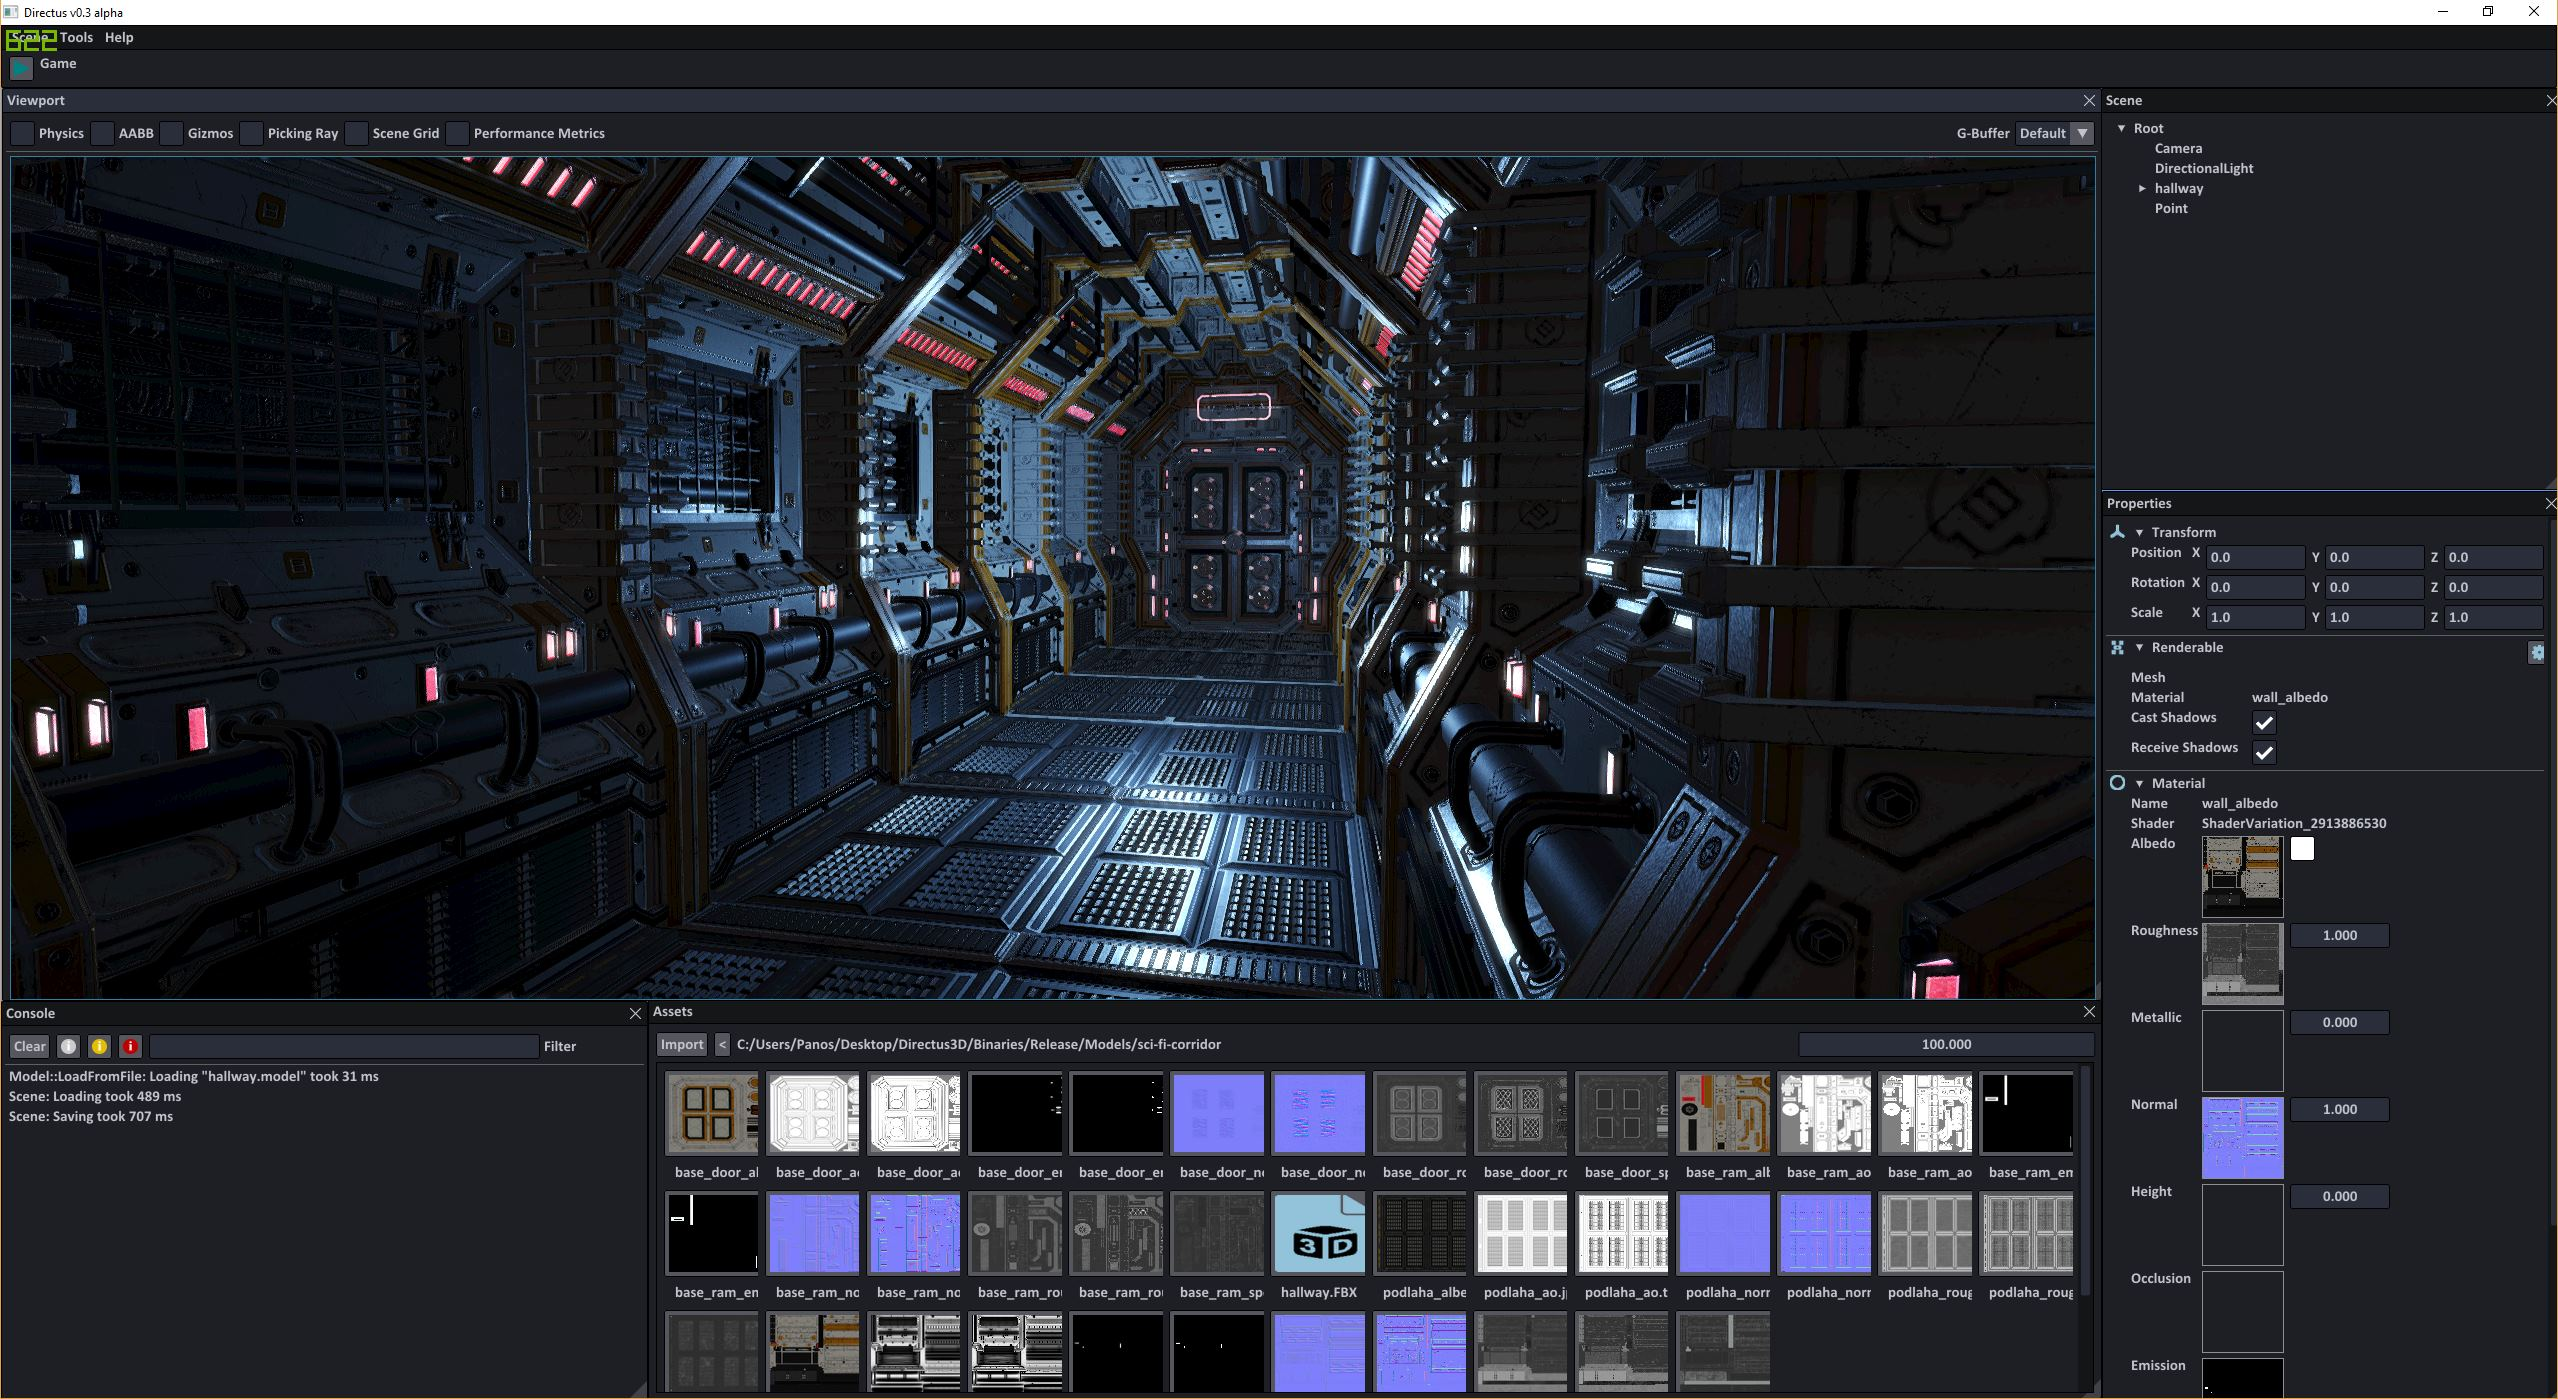
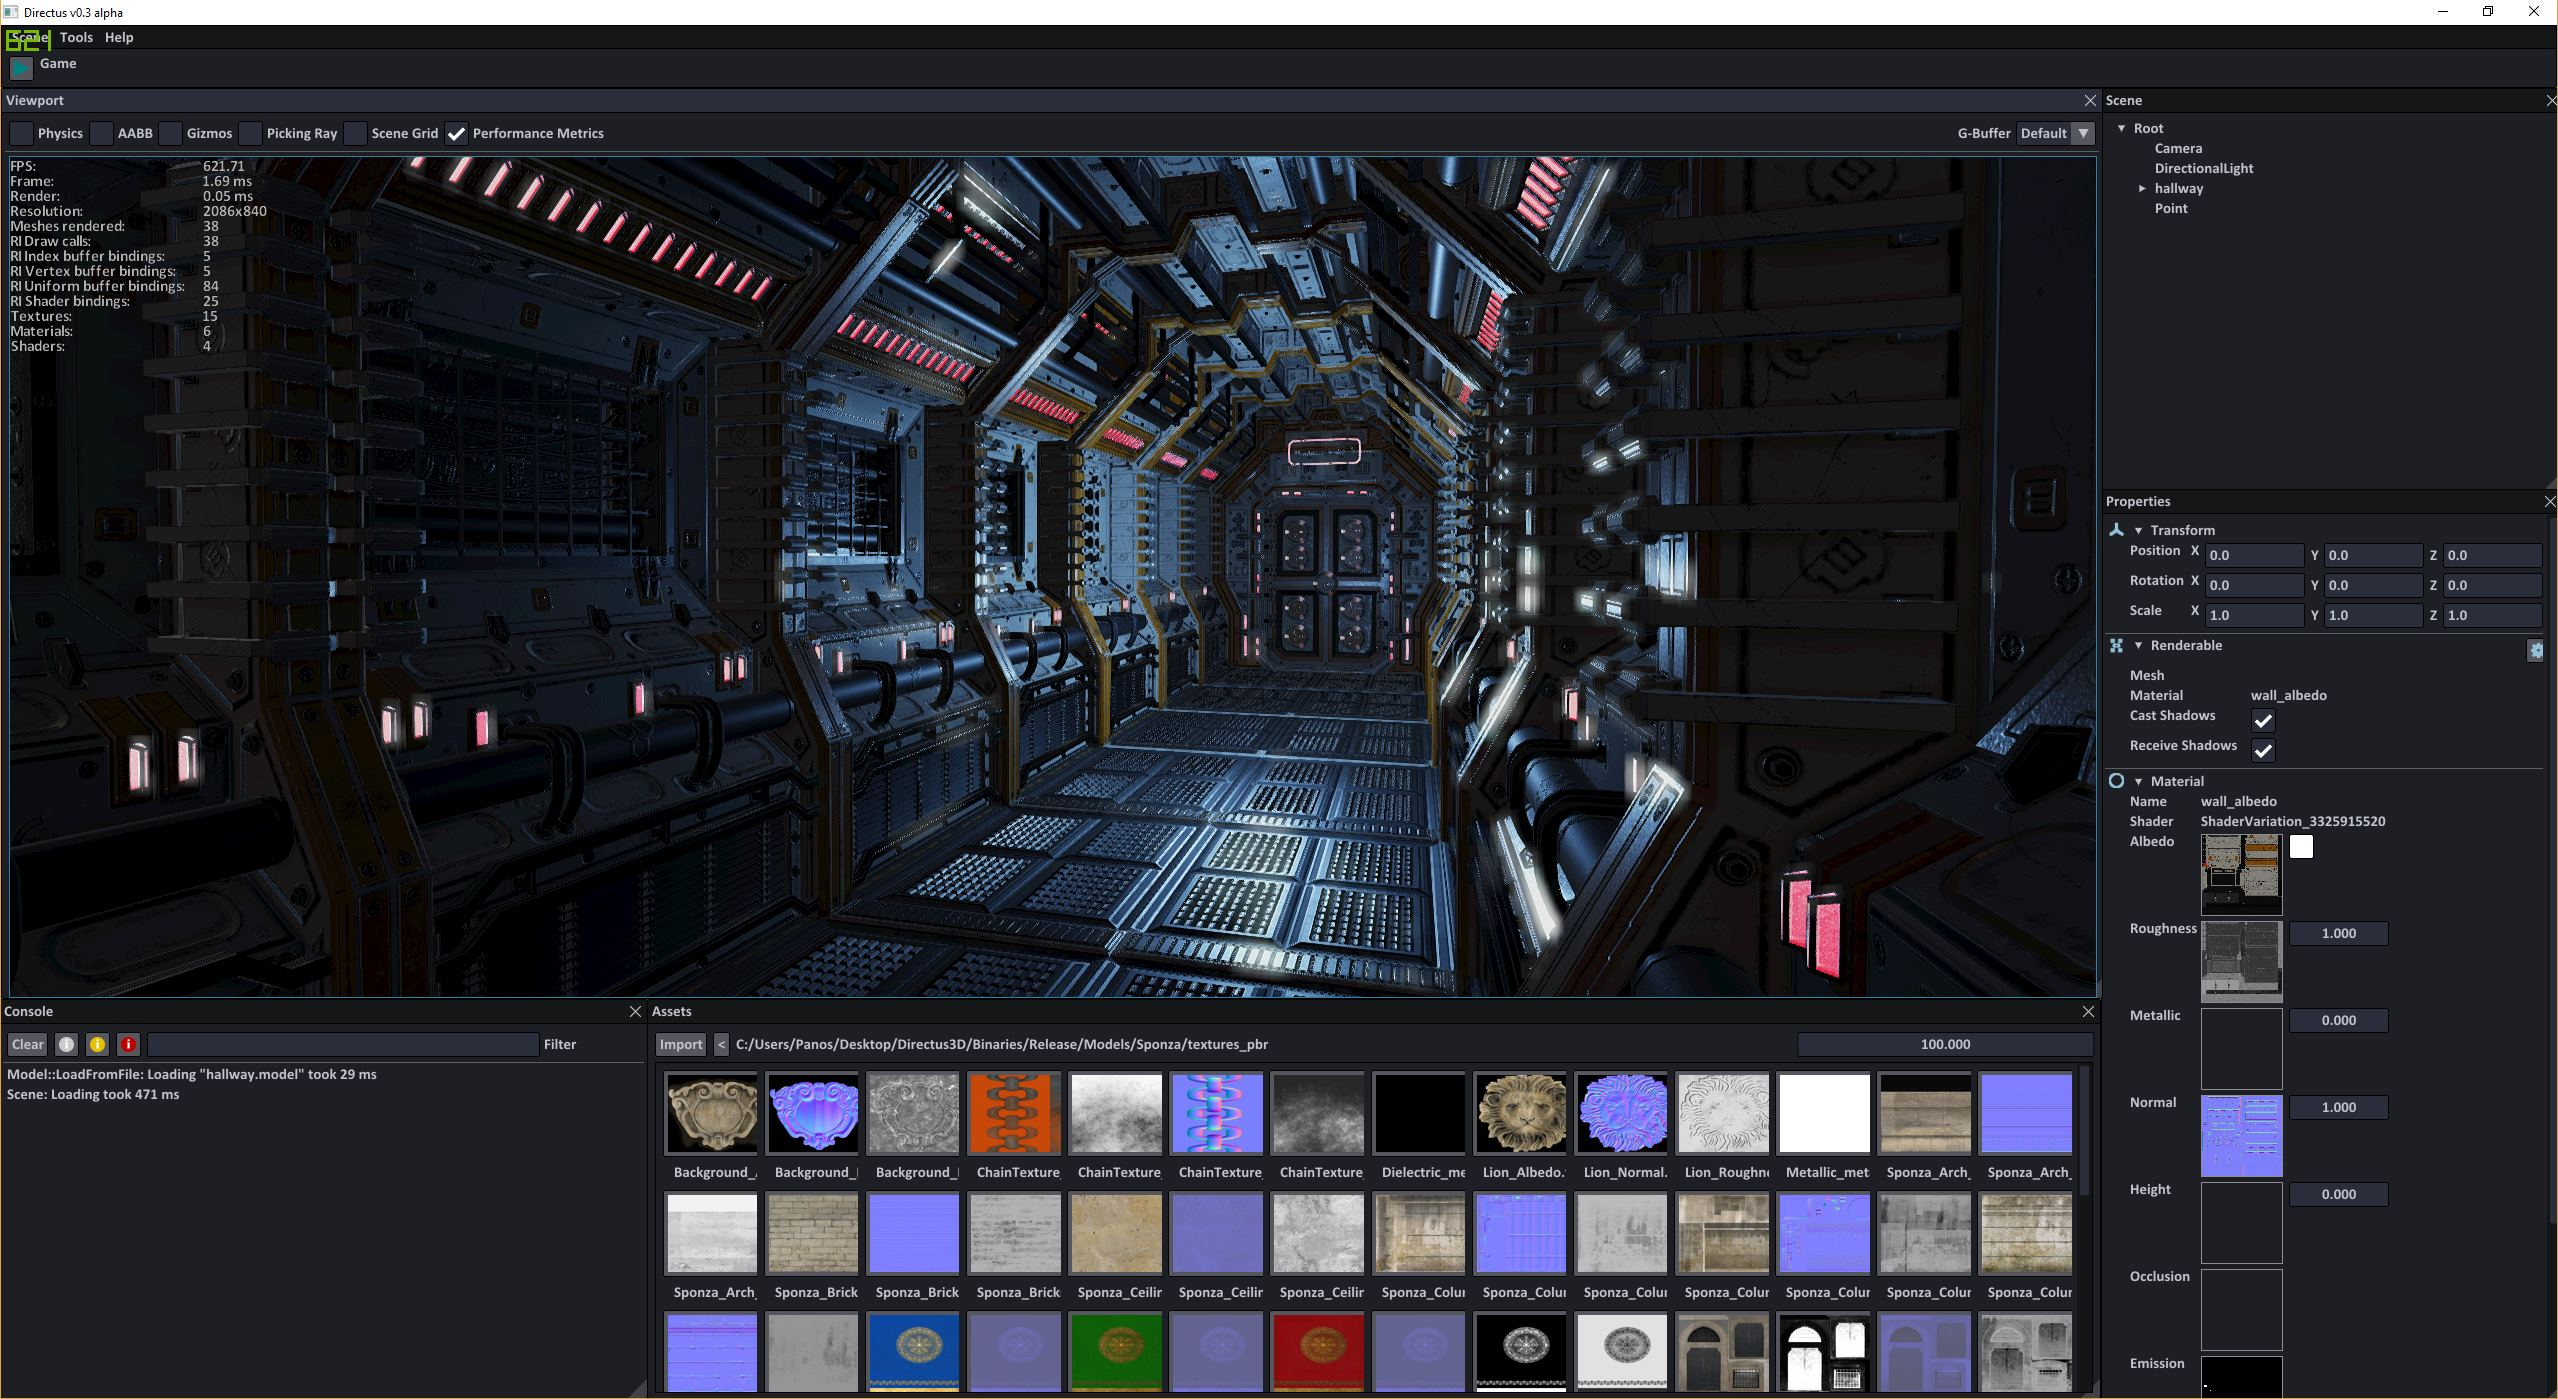
Updated screenshot

diff --git a/Runtime/Rendering/Renderer.cpp b/Runtime/Rendering/Renderer.cpp
@@ -240,8 +240,8 @@ namespace Directus
 			m_shaderShadowing = make_unique<RI_Shader>(m_context);
 			m_shaderShadowing->Compile(shaderDirectory + "Shadowing.hlsl");
 			m_shaderShadowing->SetInputLaytout(PositionTexture);
-			m_shaderShadowing->AddSampler(Texture_Sampler_Point, Texture_Address_Clamp); // Shadow mapping
-			m_shaderShadowing->AddSampler(Texture_Sampler_Linear, Texture_Address_Clamp); // SSAO
+			m_shaderShadowing->AddSampler(Texture_Sampler_Point, Texture_Address_Clamp, Texture_Comparison_Greater); // Shadow mapping
+			m_shaderShadowing->AddSampler(Texture_Sampler_Linear, Texture_Address_Clamp, Texture_Comparison_Greater); // SSAO
 			m_shaderShadowing->AddBuffer(CB_Shadowing, Global);
 		}
 
@@ -729,7 +729,7 @@ namespace Directus
 		m_texArray.emplace_back(m_gbuffer->GetShaderResource(GBuffer_Target_Depth));
 		m_texArray.emplace_back(m_gbuffer->GetShaderResource(GBuffer_Target_Specular));
 		m_texArray.emplace_back(inTextureShadowing);
-		m_texArray.emplace_back(nullptr); // previous frame for SSR
+		m_texArray.emplace_back(m_renderTexPong->GetShaderResourceView()); // previous frame for SSR
 		m_texArray.emplace_back(m_skybox ? m_skybox->GetShaderResource() : nullptr);
 
 		m_shaderLight->UpdateTextures(m_texArray);

diff --git a/Runtime/Resource/Import/ModelImporter.cpp b/Runtime/Resource/Import/ModelImporter.cpp
@@ -73,7 +73,7 @@ namespace Directus
 			aiProcess_Debone |
 			aiProcess_ConvertToLeftHanded;
 
-		static int g_normalSmoothAngle = 80; // Default is 45, max is 175
+		static int g_normalSmoothAngle = 45; // Default is 45, max is 175
 	}
 
 
